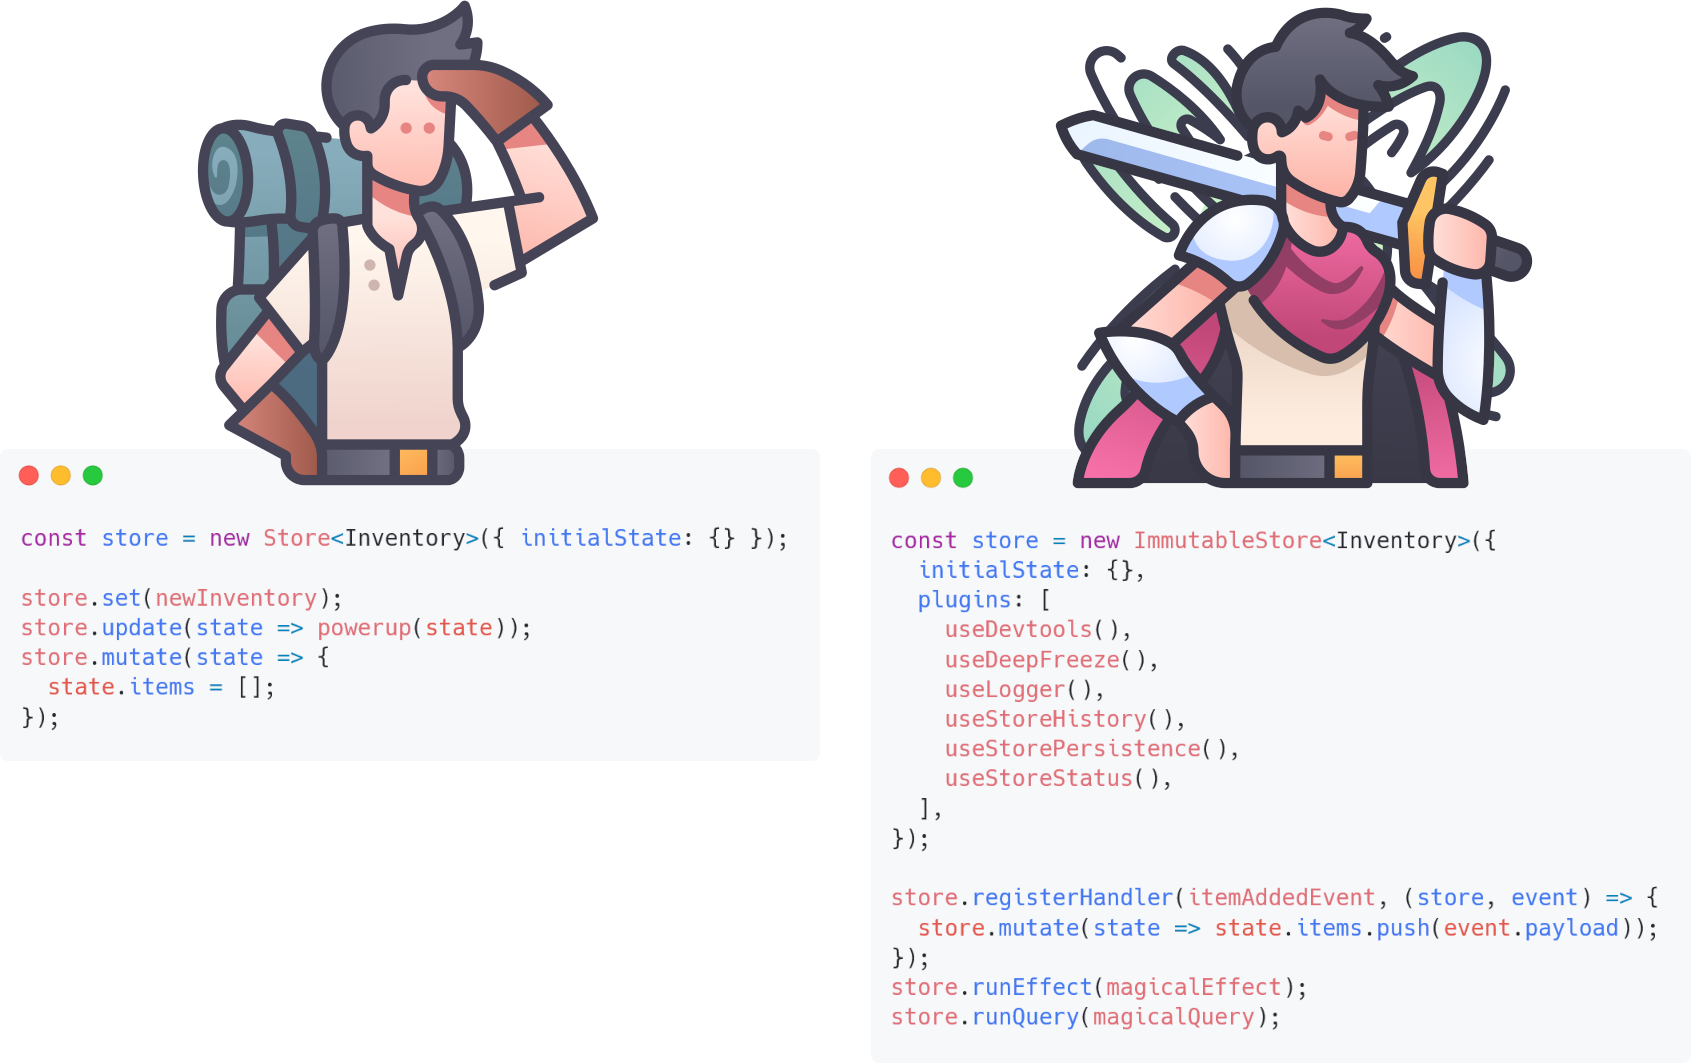
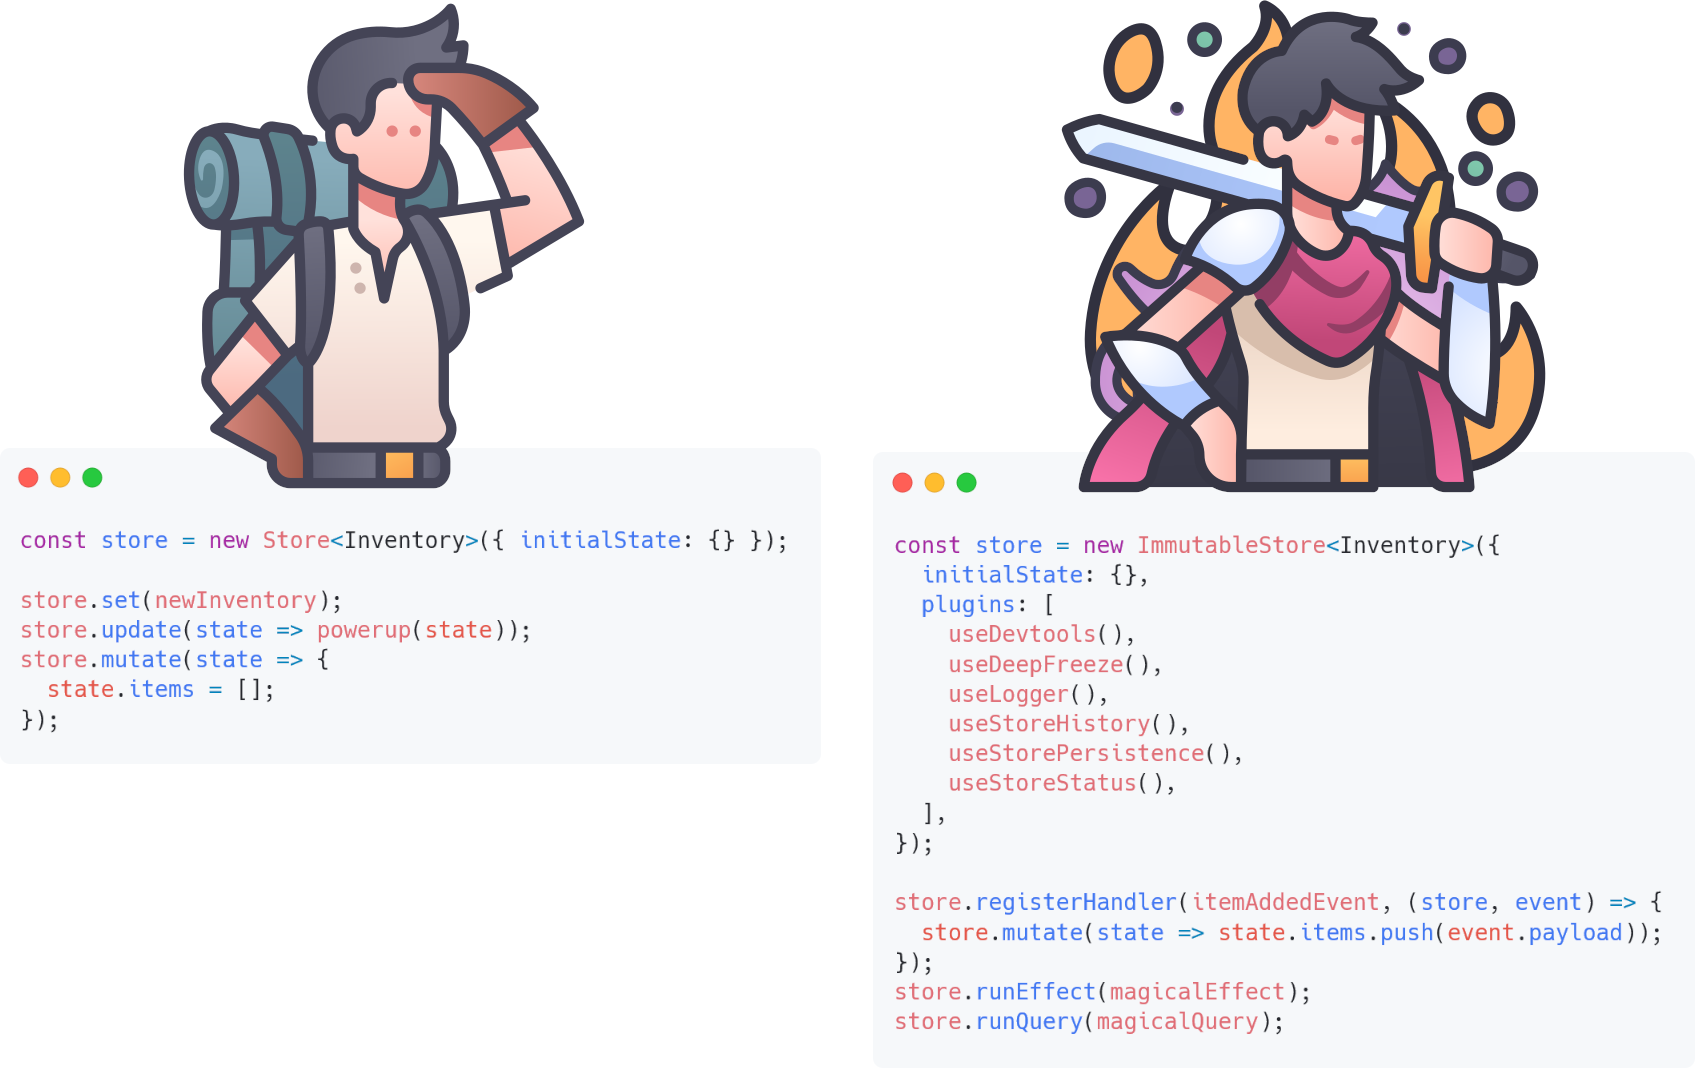
Improve images and switch social card image

diff --git a/docs/docusaurus.config.js b/docs/docusaurus.config.js
@@ -43,7 +43,7 @@ const config = {
     /** @type {import('@docusaurus/preset-classic').ThemeConfig} */
     ({
       // Replace with your project's social card
-      image: 'img/social-card.jpg',
+      image: 'img/social-card.png',
       hideOnScroll: 'false',
       metadata: [
         {
@@ -64,7 +64,7 @@ const config = {
         {
           name: 'twitter:image',
           content:
-            'https://zuriscript.github.io/signalstory/img/social-card.jpg',
+            'https://zuriscript.github.io/signalstory/img/social-card.png',
         },
         {
           property: 'og:url',
@@ -79,7 +79,7 @@ const config = {
         {
           property: 'og:image',
           content:
-            'https://zuriscript.github.io/signalstory/img/social-card.jpg',
+            'https://zuriscript.github.io/signalstory/img/social-card.png',
         },
       ],
       navbar: {

diff --git a/docs/docs/prolog.md b/docs/docs/prolog.md
@@ -35,24 +35,26 @@ sources={{
     ),
   }}
 />
-;
 
 ### How does it scale?
 
 In signalstory, think of a `store` as a `signal-in-a-service`. Start by establishing a store dedicated to a domain entity, a component, or both. Hence, state is distributed across multiple stores but can also be partially kept at the component level.  
 And then:
 
-- Use class methods to provide controlled access and mutations to shared state.
-- If your store becomes unwieldy, slice it into multiple stores.
-- Join and aggregate your state at the component level using signal mechanics.
-- Need to sync states between stores? - Use events.
-- Need to decouple actors and consumers as you do in redux? - Use events.
-- Craving Immutability? - Just activate it.
-- Don't want full immutability because your store has to be super fast? - Don't activate it.
-- Seeking a way to encapsulate side effects in a reusable, maintainable, and testable way? - Use effect objects.
-- Want a way to reuse and test queries spanning over multiple stores? - Use query objects.
-- Tired of debugging state changes in the console? - Enable redux devtools.
-- Need to keep track of store history and selectively perform undo/redo operations? - Enable the history plugin.
-- Want to sync your state with local storage? - Enable the persistence plugin.
-- Something's missing? - Write a custom plugin.
-- Read the docs for more features and concepts
+- 🚀 Use class methods to provide controlled access and mutations to shared state.
+- 🌌 If your store becomes too complex and bloated, slice it into multiple stores.
+- ✨ Join and aggregate your state at the component level using signal mechanics.
+- 🌐 Need to sync states between stores synchronously? - Use events.
+- 🔮 Need to decouple actors and consumers as you do in redux? - Use events.
+- 🔄 Craving Immutability? - Just activate it.
+- 🏎 Don't want full immutability because your store has to be super fast? - Don't activate it.
+- 🧙♂ Seeking a way to encapsulate side effects in a reusable, maintainable, and testable way? - Use effect objects.
+- 🔍 Want a way to reuse and test queries spanning over multiple stores? - Use query objects.
+- 📦 Don't want to use a class for stores? - You don't have to.
+- 🛠 Tired of debugging state changes in the console? - Enable redux devtools.
+- 🪄 Still want some good old logging magic? - Enable Store logger plugin
+- ⏳ Need to keep track of store history and selectively perform undo/redo operations? - Enable the history plugin.
+- 💾 Want to sync your state with local storage? - Enable the persistence plugin.
+- 📈 Need to get notified of whether your store is modified or currently loading? - Enable the Store Status plugin.
+- 🎨 Something's missing? - Write a custom plugin.
+- 📖 Read the [docs](https://zuriscript.github.io/signalstory/) for more features and concepts.

diff --git a/README.md b/README.md
@@ -32,7 +32,7 @@ signalstory is a state management library based on angular signals. It offers a 
   <img src="docs/static/img/code_evolve_landscape_light.png">
 </picture>
 
-## Philosophy
+## Guiding Principles
 
 - 🚀 Use class methods to provide controlled access and mutations to shared state.
 - 🌌 If your store becomes too complex and bloated, slice it into multiple stores.
@@ -45,8 +45,10 @@ signalstory is a state management library based on angular signals. It offers a 
 - 🔍 Want a way to reuse and test queries spanning over multiple stores? - Use query objects.
 - 📦 Don't want to use a class for stores? - You don't have to.
 - 🛠 Tired of debugging state changes in the console? - Enable redux devtools.
+- 🪄 Still want some good old logging magic? - Enable Store logger plugin
 - ⏳ Need to keep track of store history and selectively perform undo/redo operations? - Enable the history plugin.
 - 💾 Want to sync your state with local storage? - Enable the persistence plugin.
+- 📈 Need to get notified of whether your store is modified or currently loading? - Enable the Store Status plugin.
 - 🎨 Something's missing? - Write a custom plugin.
 - 📖 Read the [docs](https://zuriscript.github.io/signalstory/) for more features and concepts.
 
